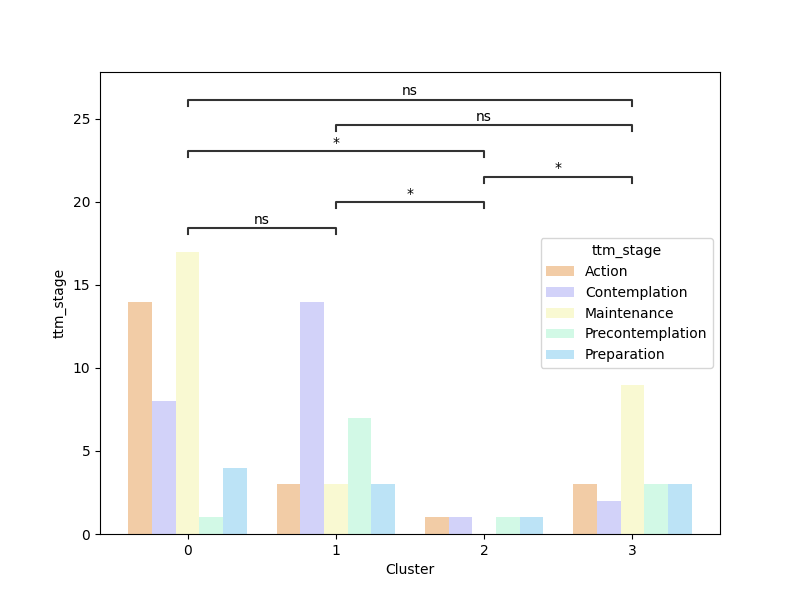
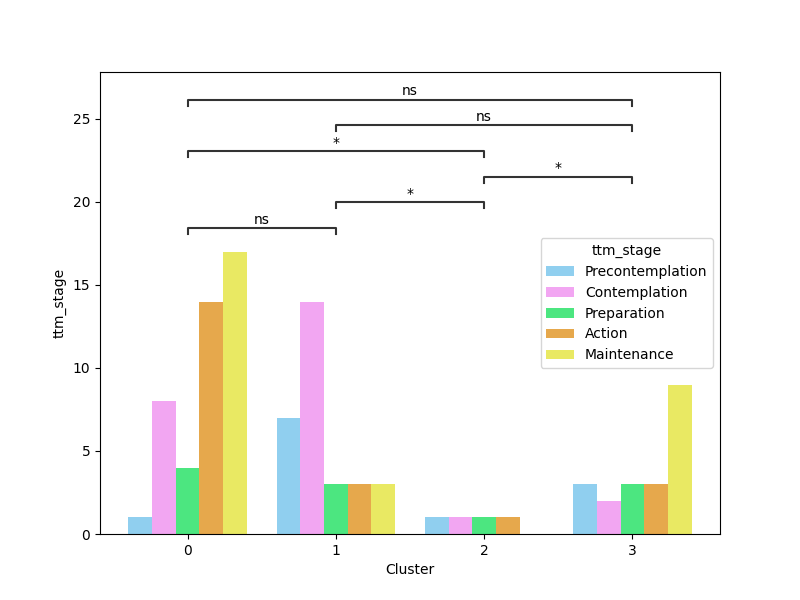
kmeans full re-colored and re-ordered images

diff --git a/functions/visualizations.py b/functions/visualizations.py
@@ -9,14 +9,14 @@ from statannotations.Annotator import Annotator
 
 
 """
-This function creates and saves a boxplot.
+This function annotates a plot.
 """
-def do_annotation(visualize_date, ax, col, what):
-    pairs = [(str(i), str(j)) for i in visualize_date['cluster'].unique() for j in visualize_date['cluster'].unique() if i < j]
+def do_annotation(visualize_data, ax, col, what):
+    pairs = [(str(i), str(j)) for i in visualize_data['cluster'].unique() for j in visualize_data['cluster'].unique() if i < j]
     if what == 'boxplot':
-        annotator = Annotator(ax, pairs, data=visualize_date, x='cluster', y=col)
+        annotator = Annotator(ax, pairs, data=visualize_data, x='cluster', y=col)
     else:
-        annotator = Annotator(ax, pairs, data=visualize_date, x='cluster', y='count')
+        annotator = Annotator(ax, pairs, data=visualize_data, x='cluster', y='count')
     annotator.configure(test='Mann-Whitney', text_format='star', loc='inside', verbose=2)
     annotator.apply_and_annotate()
 
@@ -41,11 +41,19 @@ This function creates and saves a bar plot.
 def bar_plot(data, col, where, model, version):
     plt.figure(figsize=(8, 6))
     visualize_data = data.groupby(['cluster', col]).size().reset_index(name='count')
-    if col == 'mood':
-        ax = sns.barplot(x='cluster', y='count', data=visualize_data, hue=col, palette=['#ffcc99', '#ccccff', '#ffffcc', '#ccffe6', '#b3e6ff', '#ff704d',
-                                                                 '#ffccff', '#80ffaa', '#6666ff', '#c1c1a4', '#ffb3ff', '#99ffeb', '#dfbf9f'])
+    if col in ['positive_affect_score', 'negative_affect_score', 'stai_stress', 'extraversion', 'agreeableness', 'conscientiousness', 'stability', 'intellect', 'drag_relief_category',
+               'environmental_reevaluation_category', 'self_reevaluation_category', 'social_liberation_category', 'reinforcement_management_category', 'self_liberation_category']:
+        custom_order = ['Below average', 'Average', 'Above average']
+    elif col == 'bmi':
+        custom_order = ['Underweight', 'Normal', 'Overweight', 'Obese']
+    elif col == 'self_determination':
+        custom_order = ['amotivation', 'external_regulation', 'introjected_regulation', 'identified_regulation', 'intrinsic_regulation']
+    elif col == 'ttm_stage':
+        custom_order = ['Precontemplation', 'Contemplation', 'Preparation', 'Action', 'Maintenance']
     else:
-        ax = sns.barplot(x='cluster', y='count', data=visualize_data, hue=col, palette=['#ffcc99', '#ccccff', '#ffffcc', '#ccffe6', '#b3e6ff'])
+        custom_order = visualize_data[col].unique()
+    ax = sns.barplot(x='cluster', y='count', data=visualize_data, hue=col, hue_order=custom_order, palette=['#80d4ff', '#ff99ff', '#33ff77', '#ffad33', '#ffff4d', '#00b300', '#ff5c33', '#6666ff', '#acac86', '#00e6b8',
+                                                                                    '#bf8040', '#8c8c8c', '#cc0044'])
     do_annotation(visualize_data, ax, col, 'barplot')
     plt.xlabel('Cluster')
     plt.ylabel(col)

diff --git a/clustering/clustering_visualization.py b/clustering/clustering_visualization.py
@@ -31,16 +31,15 @@ def visualize_labeling(data):
     'positive_affect_score', 'negative_affect_score', 'stai_stress', 'ttm_stage', 'dramatic_relief_category', 'environmental_reevaluation_category', 'self_reevaluation_category',
     'social_liberation_category', 'reinforcement_management_category', 'self_liberation_category', 'mood']
 
-    for numerical in numerical_features:
-        print(numerical)
-        # keep only the data that does not contain NaN values in this specific feature
-        visualize_data = data.dropna(subset=[numerical])
-        # for the features resting_heart_rate, stress_score and responsiveness_points keep only the rows that do not contain 0 values
-        if numerical in ['resting_heart_rate', 'stress_score', 'responsiveness_points']:
-            visualize_data = visualize_data[visualize_data[numerical] != 0]
-        visualize_data['cluster'] = visualize_data['cluster'].astype(str)
-        # for the arithmetic features: visualize the clean data with a boxplot
-        boxplot(visualize_data, numerical, 'clustering_labeling', 'hdbscan', 'full')
+    # for numerical in numerical_features:
+    #     # keep only the data that does not contain NaN values in this specific feature
+    #     visualize_data = data.dropna(subset=[numerical])
+    #     # for the features resting_heart_rate, stress_score and responsiveness_points keep only the rows that do not contain 0 values
+    #     if numerical in ['resting_heart_rate', 'stress_score', 'responsiveness_points']:
+    #         visualize_data = visualize_data[visualize_data[numerical] != 0]
+    #     visualize_data['cluster'] = visualize_data['cluster'].astype(str)
+    #     # for the arithmetic features: visualize the clean data with a boxplot
+    #     boxplot(visualize_data, numerical, 'clustering_labeling', 'hdbscan', 'full')
 
     for categorical in categorical_features:
         print(categorical)
@@ -48,11 +47,11 @@ def visualize_labeling(data):
         visualize_data = data.dropna(subset=[categorical])
         visualize_data['cluster'] = visualize_data['cluster'].astype(str)
         # for the categorical features: visualize the clean data with a bar plot
-        bar_plot(visualize_data, categorical, 'clustering_labeling', 'hdbscan', 'full')
+        bar_plot(visualize_data, categorical, 'clustering_labeling', 'kmeans', 'full')
 
 
 if __name__ == '__main__':
-    data = pd.read_pickle('../data/labeling_visualizations/hdbscan_full_labeling.pkl')
+    data = pd.read_pickle('../data/labeling_visualizations/kmeans_full_labeling.pkl')
 
     # visualize the training features along with the clustering results
     # visualize_training(data)
